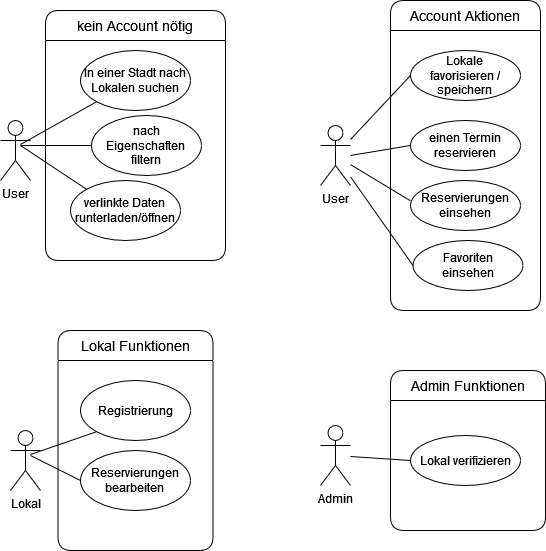
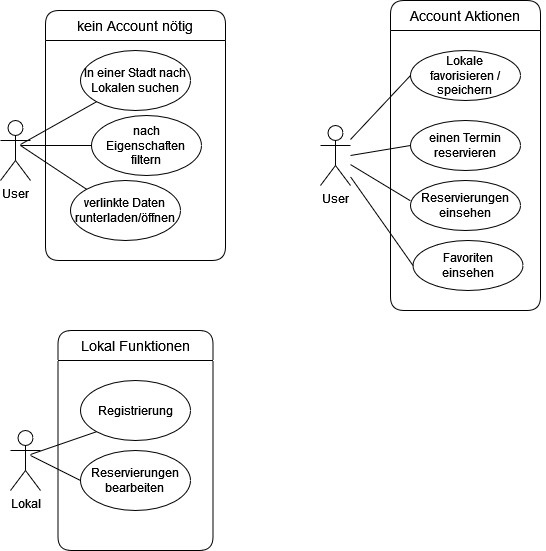
Fixed command table and removed admin stuff

diff --git a/localfinder/index.md b/localfinder/index.md
@@ -29,7 +29,6 @@ Local Finder bietet den Usern die Möglichkeit nach Freizeitaktivitäten in der 
 | Reservieren   | User    | einen Termin reservieren      | ich einen Termin mit dem Lokal ausmachen kann  | Die Reservierung wurde an das Lokal weitergeleitet |
 | Lokal registrieren       | Lokal | möchte ich mein Lokal registrieren und den Account erstellen | User Reservierungen vornehmen können | Lokaldaten wurden angegeben |
 | Reservierung bearbeiten  | Lokal | eingegangene Reservierungen annehmen/ablehenen | beim User eine Antwort vorliegt | Die Reservierung wird nicht mehr angezeigt und der User hat eine Bestätigung per E-Mail erhalten |
-| Lokal verifizieren | Admin | Lokale verifizieren und den zugehörigen Account freischalten | Lokale die jeweiligen Funktionen nutzen können | Account wurde freigegeben |
 
 ## Graphische Benutzerschnittstelle
 
@@ -78,6 +77,7 @@ Local Finder bietet den Usern die Möglichkeit nach Freizeitaktivitäten in der 
 ### Commands
 
 **Synchronous**
+
 | **Name** | **Parameter** | **Resultat** |
 | :------- | :------------ | :----------- |
 | SearchRequest() | String destination, String startingLocation, int area | JSON [] Location |
@@ -108,7 +108,7 @@ Local Finder bietet den Usern die Möglichkeit nach Freizeitaktivitäten in der 
 | Decline Reservation | int reservationId |
 
 
-**Admin event channel**
+**Stadtverwaltung event channel**
 
 | **Name** | **Payload** |
 | :------- | :---------- |
